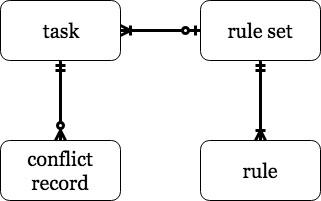
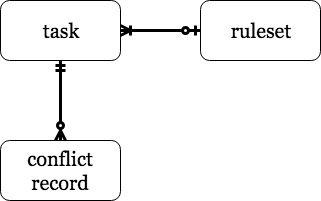
fix bug in pseudo code and add more explanation

diff --git a/README.md b/README.md
@@ -1,16 +1,19 @@
 # qDiff
 ## Overview
-A tool for finding the difference between multiple data sources which are supposed to be the same.
+A tool for finding the difference between multiple data sources which should have the same value.
 
 ---
 ## Goals
-1. Reducing the efforts required for checking data validation from different source.
-1. Reporting the differences to user.
-1. Resolving the differences for user basing on input rules.
+1. Reduce the efforts required to check data validation from different source.
+1. Report the differences to user.
+1. Resolve the differences for user basing on input rules.
 
 ---
 ## System architecture
 ### Architecture
+
+    For database, the user should config access in django setting.
+    For API, the user should input an description for the API, including endpoint, method, parameters, and authentication information.
 
 <img src="./diagrams/sa.png">
 <a href="https://drive.google.com/open?id=1GzHV_wweiGHNRarZlgLIKfL8TgOqlY5i">link</a>
@@ -28,19 +31,35 @@ A tool for finding the difference between multiple data sources which are suppos
     * Importing the file into the database, support  DSV(CSV, TSV) and excel
 1. Comparator
     
-    1. Algorithm.
+    1. Brief description
+
+        data1, data2: the input data
+
+        item1, item2: the elements from data1 and data2
+        
+        list1, list2: the list for saving unmatch records
+
+    1. steps
+        1. Sort the data1 and data2
+        1. Iterate over data1 and data2 at same time, item1 comes from data1 and item2 comes from data2
+            1. If the item1 is identical to item2, iterate next item
+            1. If the item1 in list2, save the all elements in list2 except item1 as conflicted results
+            1. If the item2 in list1, save the all elements in list1 except item2 as conflicted results
+            1. If the item1 is different from the item2, put item1 in list1 and item2 in list2
+
+    1. Complexity.
 
         given m,n = len(data1),len(data2)
     
-    1. Time complexity
-    
-        Average Case: O(m+n)
+        Time complexity:
 
-        Amortized Worst Case: O(m*n)
+            Average Case: O(m+n)
 
-    1. Space complexity
+            Amortized Worst Case: O(m*n)
 
-        O(m+n)
+        Space complexity:
+
+            O(m+n)
 
     1. pseudo code in python
 
@@ -62,12 +81,13 @@ A tool for finding the difference between multiple data sources which are suppos
                         item1 = None
                         item2 = None
                         continue
-                    if h1 in temp_dict2:
-                        temp_dict2.pop(h1)
-                        saveToConflictedResult(temp_dict2.values())
-                    elif h2 in temp_dict1:
-                        temp_dict1.pop(h2) 
-                        saveToConflictedResult(temp_dict1.values())
+                    elif h1 in temp_dict2 or h2 in temp_dict1:
+                        if h1 in temp_dict2:
+                            temp_dict2.pop(h1)
+                            saveToConflictedResult(temp_dict2.values())
+                        if h2 in temp_dict1:
+                            temp_dict1.pop(h2) 
+                            saveToConflictedResult(temp_dict1.values())
                     else:
                         temp_dict1[h1]=item1
                         temp_dict2[h2]=item2
@@ -83,6 +103,12 @@ A tool for finding the difference between multiple data sources which are suppos
 
 1. Rule parser
     * Parsing the input rules and save as rule set for reuse
+    * Rules:
+
+        Where to write the resolved result
+        Left join, right join, inner join, and outer join
+        Condition based rule, (E.X. when field1 == 0 and field2 > 3)
+
 
 1. Report viewer
     * Providing the comparison result    
@@ -90,6 +116,15 @@ A tool for finding the difference between multiple data sources which are suppos
 
 1. Conflict resolver
     * Filtering the conflicted results basing on the input rules
+
+
+---
+## Scenarios
+1. Comparing tables within same database
+1. Comparing tables from different databases
+1. Comparing tables with different range of data within same/different database
+1. Comparing table and CSV file
+1. Comparing unordered CSV file and database 
 
 ---
 
@@ -116,13 +151,6 @@ A tool for finding the difference between multiple data sources which are suppos
 3 | Week 8 | Rule parser, conflict resolver
 
 ---
-## Scenarios
-1. Comparing tables within same database
-1. Comparing tables from different databases
-1. Comparing tables with different range of data within same/different database
-1. Comparing table and CSV file
-1. Comparing unordered CSV file and database 
----
 
 ## ERD
 ### entities	
@@ -132,9 +160,7 @@ A tool for finding the difference between multiple data sources which are suppos
     * Information of datasource
     * Uploaded file path
     * Database information (encryption required, use what as secret key, what as salt) 
-    * Datetime
-
-        Recording the start time and end time for performance evaluation
+    * Datetime, Recording the start time and end time for performance evaluation
     * Owner 
 
 1. Conflict record
@@ -143,5 +169,5 @@ A tool for finding the difference between multiple data sources which are suppos
 1. Rule set
     * Name 
     * Description
-1. Rule
-    * Formatted rule
+    * Rule, formatted rules in json format
+    
